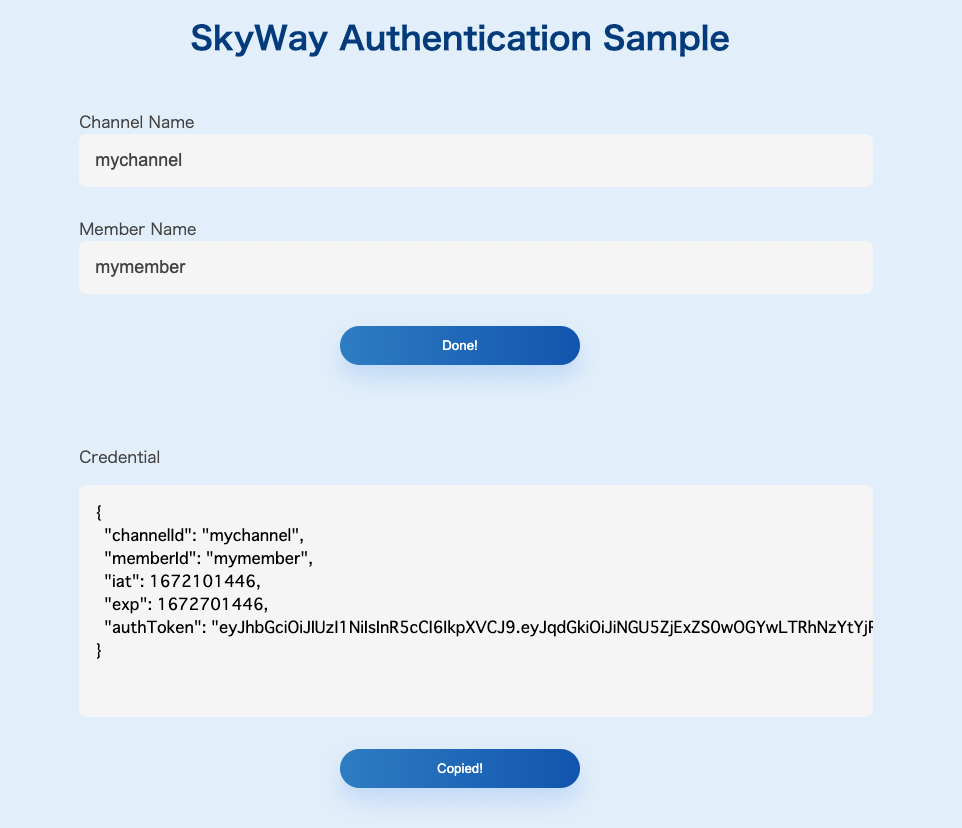
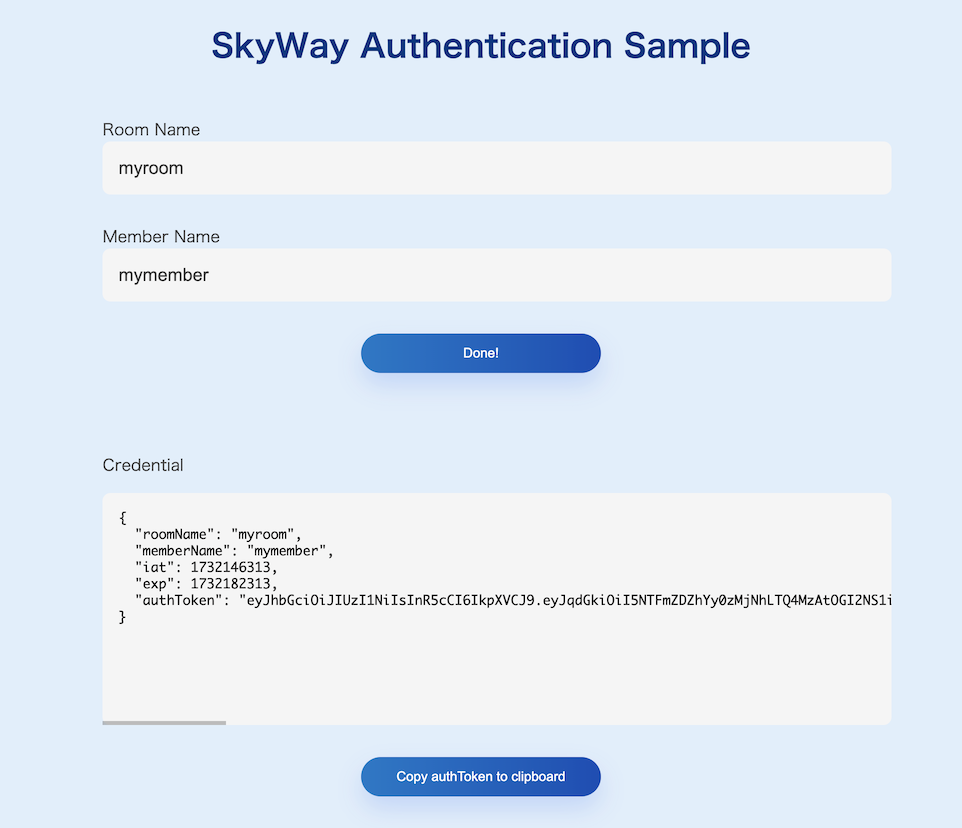
Rename channel to room

diff --git a/server/nodejs/index.js b/server/nodejs/index.js
@@ -15,11 +15,11 @@ app.use((_, res, next) => {
 });
 
 app.post('/authenticate', (req, res) => {
-  const channelName = req.body.channelName;
+  const roomName = req.body.roomName;
   const memberName = req.body.memberName;
   const sessionToken = req.body.sessionToken;
 
-  if (channelName === undefined || memberName === undefined || sessionToken === undefined) {
+  if (roomName === undefined || memberName === undefined || sessionToken === undefined) {
     res.status(400).send('Bad Request');
     return;
   }
@@ -33,11 +33,11 @@ app.post('/authenticate', (req, res) => {
   const exp = Math.floor(Date.now() / 1000) + 36000; // 10h=60*60*10
 
   const credential = {
-    channelName: channelName,
+    roomName: roomName,
     memberName: memberName,
     iat: iat,
     exp: exp,
-    authToken: calculateAuthToken(channelName, memberName, iat, exp)
+    authToken: calculateAuthToken(roomName, memberName, iat, exp)
   };
 
   res.send(credential);
@@ -47,7 +47,7 @@ const listener = app.listen(process.env.PORT || 8080, () => {
   console.log(`Server listening on port ${listener.address().port}`);
 });
 
-const calculateAuthToken = (channelName, memberName, iat, exp) => {
+const calculateAuthToken = (roomName, memberName, iat, exp) => {
   return jwt.sign({
     jti: crypto.randomUUID(),
     iat: iat,

diff --git a/client/index.js b/client/index.js
@@ -2,7 +2,7 @@ let authToken;
 
 window.onload = () => {
   document.querySelector('#get-btn').onclick = async () => {
-    const channelName = document.querySelector('#channel-name-text').value;
+    const roomName = document.querySelector('#room-name-text').value;
     const memberName = document.querySelector('#member-name-text').value;
 
     // POST request to auth server.
@@ -13,7 +13,7 @@ window.onload = () => {
       },
       body: JSON.stringify({
         sessionToken: '4CXS0f19nvMJBYK05o3toTWtZF5Lfd2t6Ikr2lID',
-        channelName: channelName,
+        roomName: roomName,
         memberName: memberName
       })
     });

diff --git a/client/index.html b/client/index.html
@@ -16,8 +16,8 @@
   </header>
   <section>
     <div class="form-part">
-      <label for="channel-name-text">Channel Name</label>
-      <input id="channel-name-text">
+      <label for="room-name-text">Room Name</label>
+      <input id="room-name-text" />
     </div>
     <div class="form-part">
       <label for="member-name-text">Member Name</label>

diff --git a/client/style.css b/client/style.css
@@ -26,7 +26,7 @@ header {
 }
 
 section {
-    width: 40%;
+    width: 80%;
     margin: 0 auto;
 }
 

diff --git a/README.md b/README.md
@@ -26,7 +26,7 @@ npm start
 clientディレクトリをホスティングし、ブラウザから`index.html`にアクセスしてください。
 
 ### 操作方法
-1. Channel Name、Member Nameのテキストボックスに文字列を入力します。
+1. Room Name、Member Nameのテキストボックスに文字列を入力します。
 2. Get credentialボタンを押下します。
 3. 認証情報の取得に成功すると、結果がCredentialのエリアにJSON形式で出力されます。
     - `authToken`がアプリケーションからSkyWayを利用する際に必要となります
